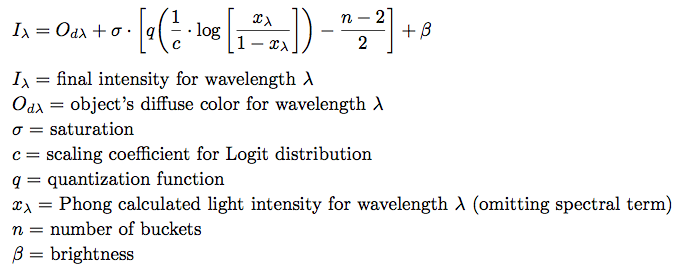
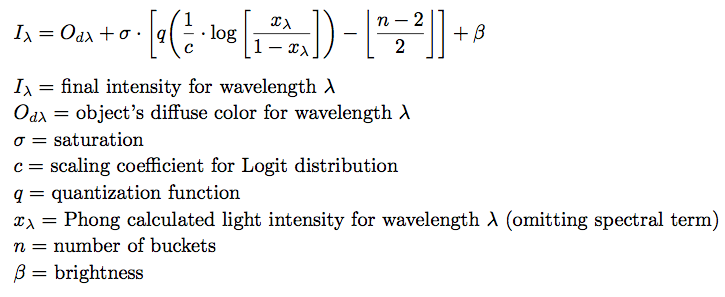
fixed quant section

Changed region(s): [[0.0, 0.2571, 1.0, 0.8571], [0.0, 0.0286, 0.6794, 0.2], [0.0, 0.8857, 0.2162, 0.9714]]

diff --git a/edgey/index.html b/edgey/index.html
@@ -108,14 +108,14 @@
 
       <div class="row featurette">
         <div class="col-md-5">
-          <img class="featurette-image img-responsive" src="img/logit_quant.jpg" alt="Generic placeholder image">
+          <img class="featurette-image img-responsive" src="img/logit.png" alt="Generic placeholder image">
         </div>
         <div class="col-md-7">
           <h2 class="featurette-heading">Quantization Model</h2>
-          <p class="lead">The unique appearance of cel-shading is achieved by quantizing illumination values into discrete "buckets." In our implementation, bucket thresholds are calculated using the <a href="http://en.wikipedia.org/wiki/Logit_function" target="blank">logit function</a> to create a function for mapping illumination values to buckets.</p>
+          <p class="lead">The unique appearance of cel shading is achieved by quantizing illumination values into discrete "buckets." In our implementation, bucket thresholds are calculated using the <a href="http://en.wikipedia.org/wiki/Logit_function" target="blank">logit function</a> to create a function for mapping illumination values to buckets.</p>
           <p> The final lighting value may be computed from the following equation:</p>
           <img src="img/math/cel.png" alt="cel shading equation"/>
-          <p>The coefficient <em>c</em> allows us to adjust the distribution of cells on a given object. A high <em>c</em> will produce objects with illumination dominated by neutral terms and bright and dark terms as highlights, while low <em>c</em> will give a more uniform distribution of shading. The saturation term allows us to adjust the contrast between shading values, and the brightness allows us to set the lower bound of illumination. For <em>n</em> buckets, at most <em>n</em> distinct shades may be produced in the scene for each object.
+          <p>The coefficient <em>c</em> allows us to adjust the distribution of cells on a given object. A high <em>c</em> will produce objects with higher probability of being shaded with a neutral term, while low <em>c</em> will give a uniform probability distribution of shading. The saturation term allows us to adjust the contrast between shading values, and the brightness allows us to set the lower bound of illumination. For <em>n</em> buckets, at most <em>n</em> - 1 distinct shades may be produced in the scene for each object.
         </div>
       </div>
 
